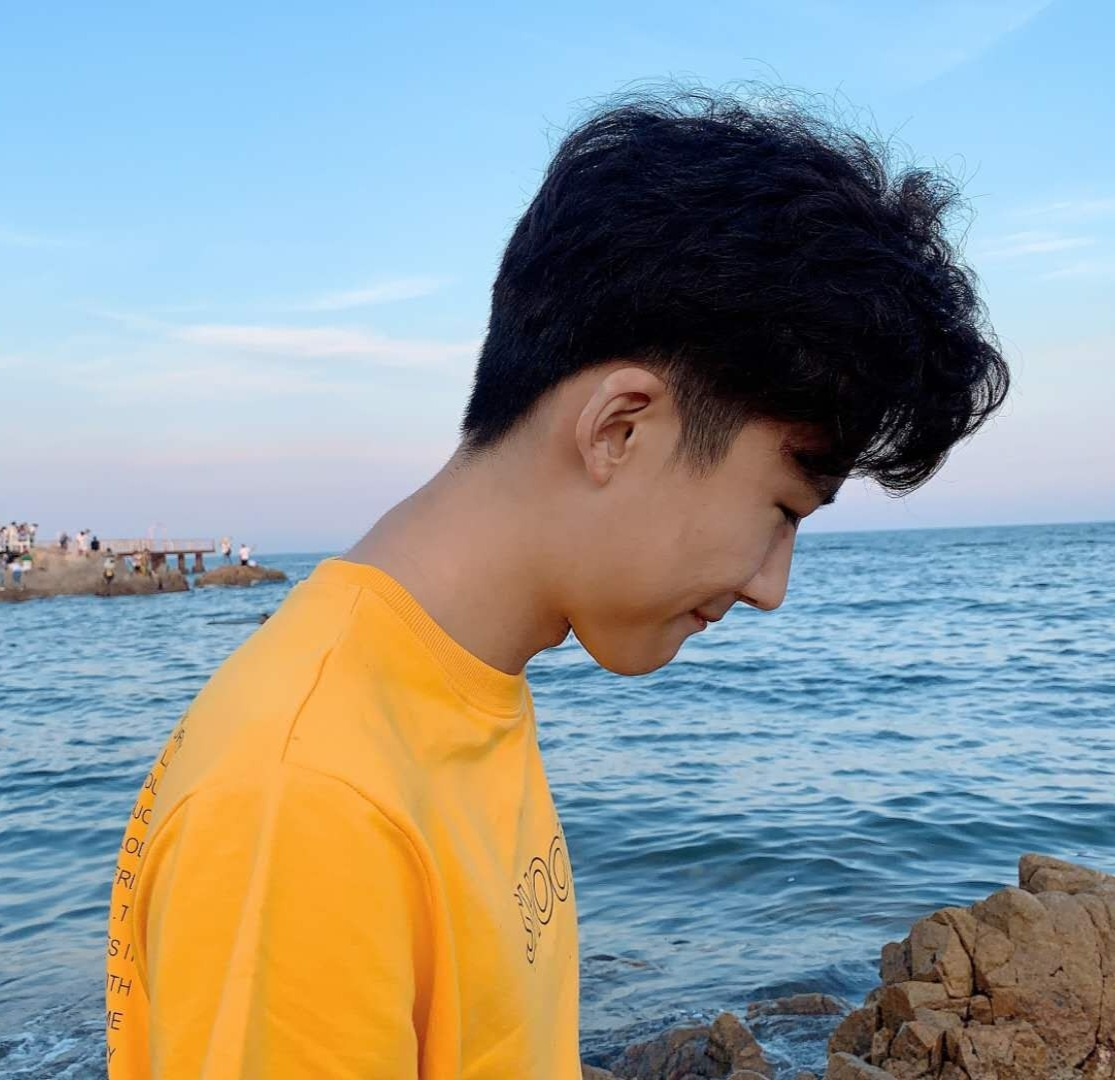
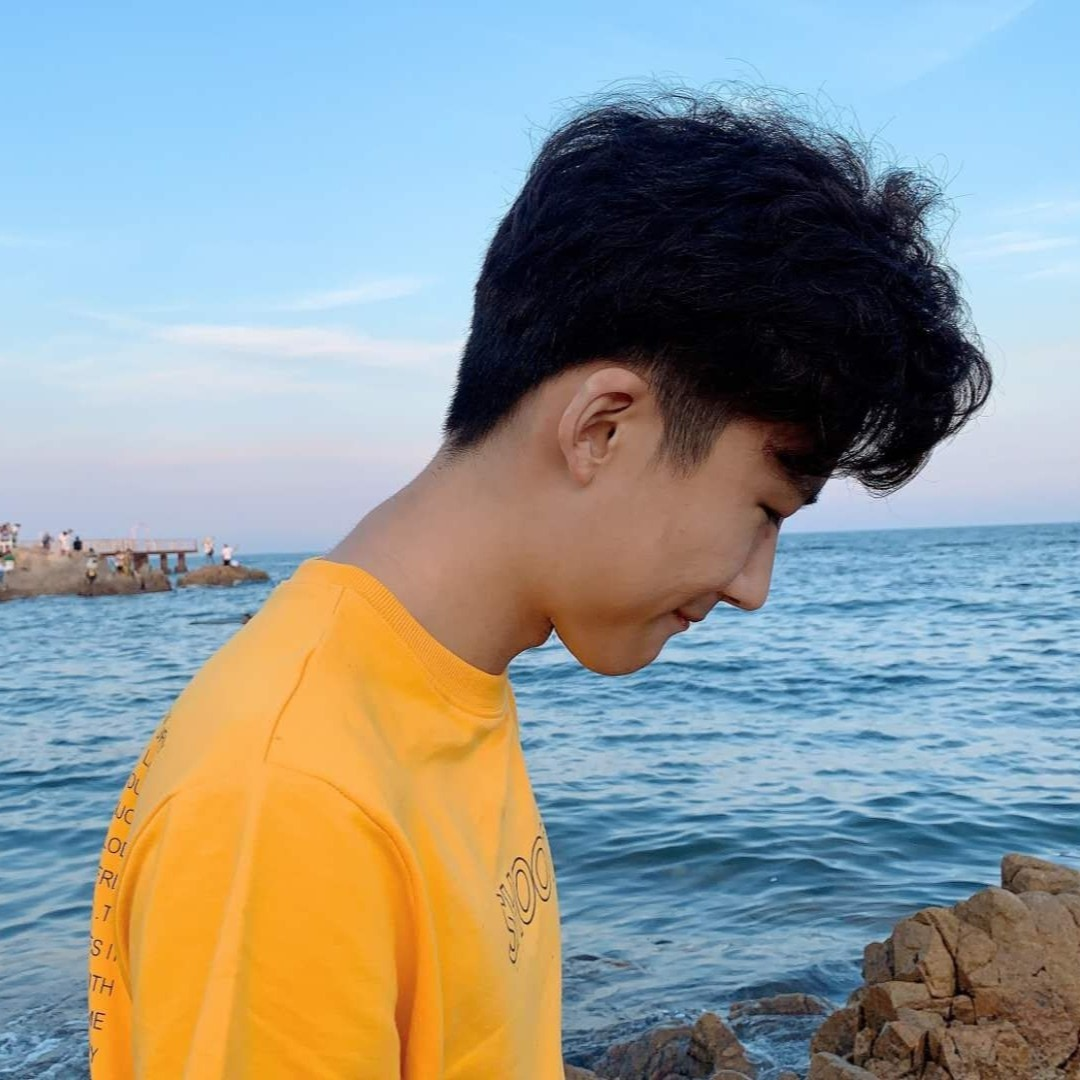
profile photos update

diff --git a/pawdy/css/main.css b/pawdy/css/main.css
@@ -3099,9 +3099,7 @@ html.no-csstransitions .home-content__main {
 
 .item-feature__icon {
   color: #ffeba8;
-  width: 15rem;
-  height: 15rem;
-  border-radius: 100%;
+  font-size: 4.8rem;
 }
 
 /* ------------------------------------------------------------------- 
@@ -3193,8 +3191,6 @@ html.no-csstransitions .home-content__main {
     margin-bottom: 0;
   }
 }
-
-
 
 /* ===================================================================
  * # testimonials

diff --git a/pawdy/index.html b/pawdy/index.html
@@ -271,7 +271,7 @@
         <div class="col-block item-feature" data-aos="fade-up">
           <div class="item-feature__icon">
             <!-- <i class="icon-upload"></i> -->
-            <img src="images/Tangcopy.jpeg">
+            <img src="images/Tang.png">
           </div>
           <div class="item-feature__text">
             <h3 class="item-title">Hongyi(Steven) Tang</h3>
